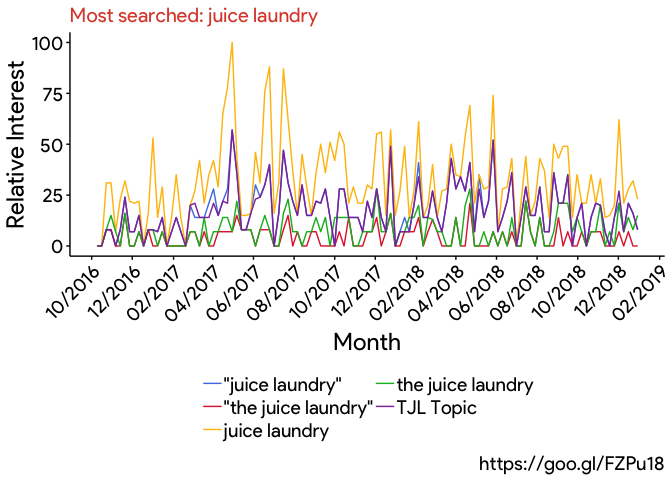
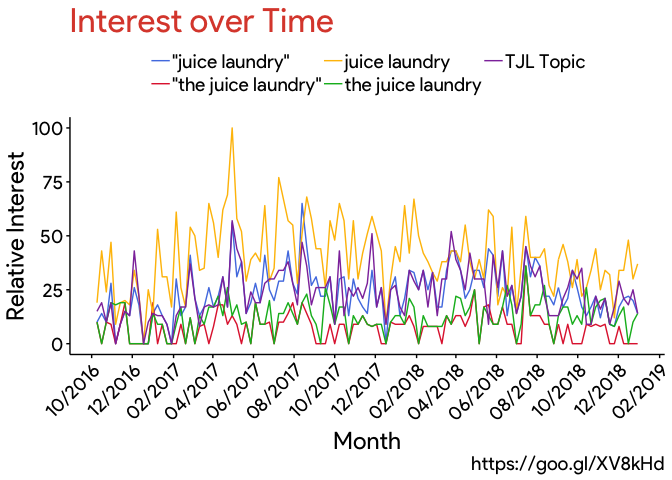
matches ui better

diff --git a/google-trends-guide.md b/google-trends-guide.md
@@ -68,29 +68,29 @@ Along the lines of what this guide will show you, *Google Trends* is most practi
 
 If you do not already have it open, go to <a href="https://trends.google.com/trends/?geo=US" target="blank">Google Trends</a>.
 
-**<u>*Step 1:*</u>** Enter *the juice laundry* as your search term. Then change *'Past 12 Months'* to a custom time range from October 9, 2016 (10-9-2016) to the end of 2018 (12-31-2018). These dates coincide with the time period of the `thejuicelaundry` package's *Square* transaction data.
+**<u>*Step 1:*</u>** Enter *"juice laundry"* (in quotes) as your search term. Then change *'Past 12 Months'* to a custom time range from October 9, 2016 (10-9-2016) to the end of 2018 (12-31-2018). These dates coincide with the time period of the `thejuicelaundry` package's *Square* transaction data.
 
 Notice that you can also change the location, category, and search type (web, image, etc.) parameters, but leave them alone.
 
-**<u>*Step 2:*</u>** Enter *The Juice Laundry* (capitalized this time) as a second search term.
+**<u>*Step 2:*</u>** Enter *"Juice Laundry"* (in quotes and capitalized this time) as a second search term.
 
 Both terms should say *'search term'* under them. You will notice that only the red line shows. This is because the **search terms are case insensitive** and the trendlines are identical.
 
-**<u>*Step 3:*</u>** Replace the second search term with *"the juice laundry"* (in quotes this time).
+**<u>*Step 3:*</u>** Replace the second search term with *"the juice laundry"* (in quotes).
 
-You will notice that the trendlines are different and that is because sourrounding the term in quotes creates a totally different query based on *Google's* algorithm. Navigate <a href="https://support.google.com/trends/answer/4359582?hl=en" target="blank">here</a> to see the results of queries that are different but that share similar terms. The takeaway is that **the algorithm is stricter on quoted terms** (because it only counts searches with that exact phrase) and the trendlines should reflect this (*"the juice laundry"* being generally lower then its non-quoted counterpart).
+The resulting trendlines will be unique, displaying generally greater search interest for the search term without *"the"* (an additional restriction) in them -- which makes sense. Take note of how the interest over time for the existing trendline (the blue) shrinks as you add the new search term. Remember that this is because **search interest for one term is relative to the search interest for another**.
 
-**<u>*Step 4:*</u>** Add *juice laundry* and the quoted *"juice laundry"*, in that order, as two more search terms.
+**<u>*Step 4:*</u>** Add *juice laundry* (not in quotes) and *the juice laundry* (not in quotes), in that order, as two more search terms.
 
-The resulting trendlines will be unique, displaying generally greater search interest than search terms with *"the"* (an additional restriction) in them -- which makes sense. Take note of how the interest over time for existing trendlines (the blue and red in this case) shrink as you added the new search terms. Remember that this is because **search interest for one term is relative to the search interest for another**.
+You will notice that the trendlines are different and that is because the quotes around the terms creates a totally different query based on *Google's* algorithm. Navigate <a href="https://support.google.com/trends/answer/4359582?hl=en" target="blank">here</a> to see the results of queries that are different but that share similar terms. The takeaway is that **the algorithm is stricter on quoted terms** (because it only counts searches with that exact phrase) and the trendlines should reflect this (*"the juice laundry"* for example being generally lower then its non-quoted counterpart).
 
-**<u>*Step 5:*</u>** Finally, add *The Juice L aundry* as another search term, but this time choose the option that states *'Juice Shop in Charlottesville, VA'* underneath it.
+**<u>*Step 5:*</u>** Finally, add *The Juice Laundry* as another search term, but this time choose the option that states *'Juice Shop in Charlottesville, VA'* underneath it.
 
 You have added what is known as a *topic*. According to Google, **a topic is a group of terms that share a concept**. For example, if you search the topic *"London,"* your search includes results for topics such as *"Capital of the UK"* and *"Londres"* which is *"London"* in Spanish. For all we know, Google's algorithm may be grouping search terms like those we have (more or less) to form the topic of *The Juice Laundry*, but we cannot know for sure what it is doing.
 
 Your screen should look very similar to the photo below. Because samples are different every day, however, the trendlines will not look exactly the same.
 
-![](https://raw.githubusercontent.com/MalcolmMashig/google-trends/master/tjl-gtrends-ui.png)
+![](https://raw.githubusercontent.com/MalcolmMashig/google-trends/master/google-trends-ui.png)
 
 **<u>*Step 6:*</u>** Scroll your mouse over the trendlines and witness how **relative search interest is aggregated for week intervals**.
 
@@ -288,8 +288,6 @@ font_import(pattern = 'product-sans.ttf', prompt=FALSE)
 
 **<u>*Line Graph:*</u>**
 
-Remember that titles should state conclusions that can be made based on the graph. Make sure that the title I supplied is true and make sure it is a subtitle (a title will be too large later on).
-
 ``` r
 lg <- ggplot(
   gtrends, aes(x = week_of, y = relative_interest, color = search_term)
@@ -298,7 +296,7 @@ lg <- ggplot(
   labs(x = 'Month', 
        y = 'Relative Interest', 
        color = 'Search Term', 
-       subtitle = "Most searched: juice laundry",
+       title = "Interest over Time",
        caption = "https://goo.gl/FZPu18")
   
 lg
@@ -326,8 +324,8 @@ scale_color_tech <- function(theme="airbnb", tech_key = list(
 line_graph <- lg +
   theme_tech(theme = 'google') + 
   scale_color_tech(theme = 'google') +
-  guides(color = guide_legend(nrow = 3)) +
-  theme(legend.position = 'bottom', 
+  guides(color = guide_legend(nrow = 2)) +
+  theme(legend.position = 'top', 
         legend.direction = 'vertical',
         axis.text.x = element_text(angle = 45, hjust = 1)) + 
   scale_x_date(date_labels = "%m/%Y", date_breaks = "2 months")
@@ -352,18 +350,18 @@ avg_trend
     ## # A tibble: 5 x 2
     ##   search_term             avg_interest
     ##   <chr>                          <dbl>
-    ## 1 "\"juice laundry\""               18
-    ## 2 "\"the juice laundry\""            4
-    ## 3 juice laundry                     32
-    ## 4 the juice laundry                  8
-    ## 5 TJL Topic                         17
+    ## 1 "\"juice laundry\""               24
+    ## 2 "\"the juice laundry\""            7
+    ## 3 juice laundry                     40
+    ## 4 the juice laundry                 12
+    ## 5 TJL Topic                         24
 
 Construct a draft for the bar graph. Remember that bar graphs with y variables specified must clarify that `stat = 'identity'`.
 
 ``` r
 bg <- ggplot(avg_trend, aes(x = search_term, y = avg_interest)) + 
   geom_bar(stat = 'identity') +
-  labs(x = 'Search Term', y = 'Average Interest')
+  labs(x = 'Average Interest')
 
 bg
 ```
@@ -379,8 +377,10 @@ bar_graph <- bg +
   geom_bar(stat = 'identity', fill = google_colors) + 
   theme_tech(theme = 'google') +
   scale_fill_tech(theme = 'google') +
-  theme(axis.text.x = element_text(angle = 80, hjust = 1)) + 
-  geom_text(aes(label = avg_interest, vjust = -1)) +
+  theme(axis.text.x = element_blank(),
+        axis.title.y = element_blank(),
+        axis.title.x = element_text(size = 11),
+        axis.ticks.x = element_blank()) + 
   ylim(0, 100)
 
 bar_graph
@@ -393,7 +393,7 @@ bar_graph
 Now we can arrange both graphs side by side as they appear in the UI. It did require some guessing-and-checking in order to decide the scaling that was best.
 
 ``` r
-ui_copy <- grid.arrange(bar_graph, line_graph, ncol = 2, widths = c(2, 5))
+ui_copy <- grid.arrange(bar_graph, line_graph, ncol = 2, widths = c(1, 6))
 ```
 
 ![](google-trends-guide_files/figure-markdown_github/ui-replication-1.png)
@@ -404,7 +404,7 @@ ui_copy <- grid.arrange(bar_graph, line_graph, ncol = 2, widths = c(2, 5))
 
 Here is the example UI again for comparision:
 
-![](https://raw.githubusercontent.com/MalcolmMashig/google-trends/master/tjl-gtrends-ui.png)
+![](https://raw.githubusercontent.com/MalcolmMashig/google-trends/master/google-trends-ui.png)
 
 ------------------------------------------------------------------------
 
